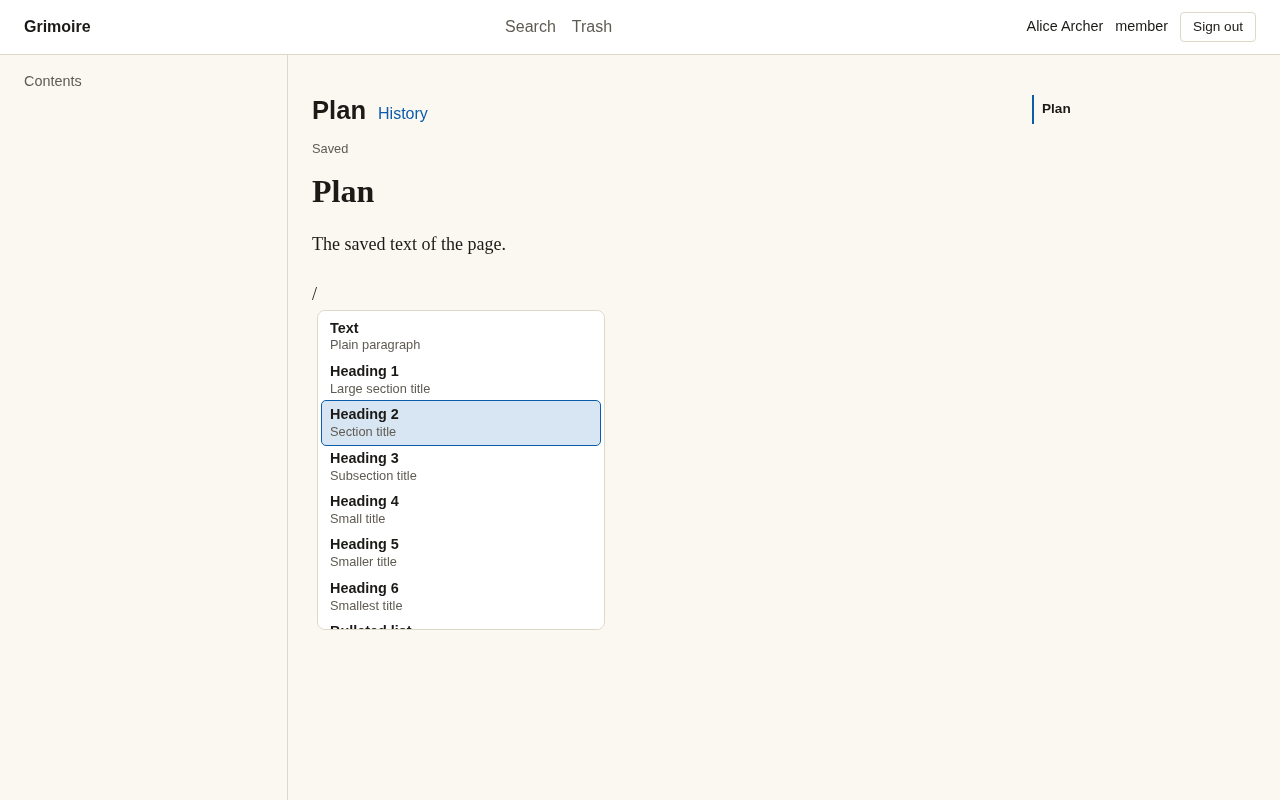
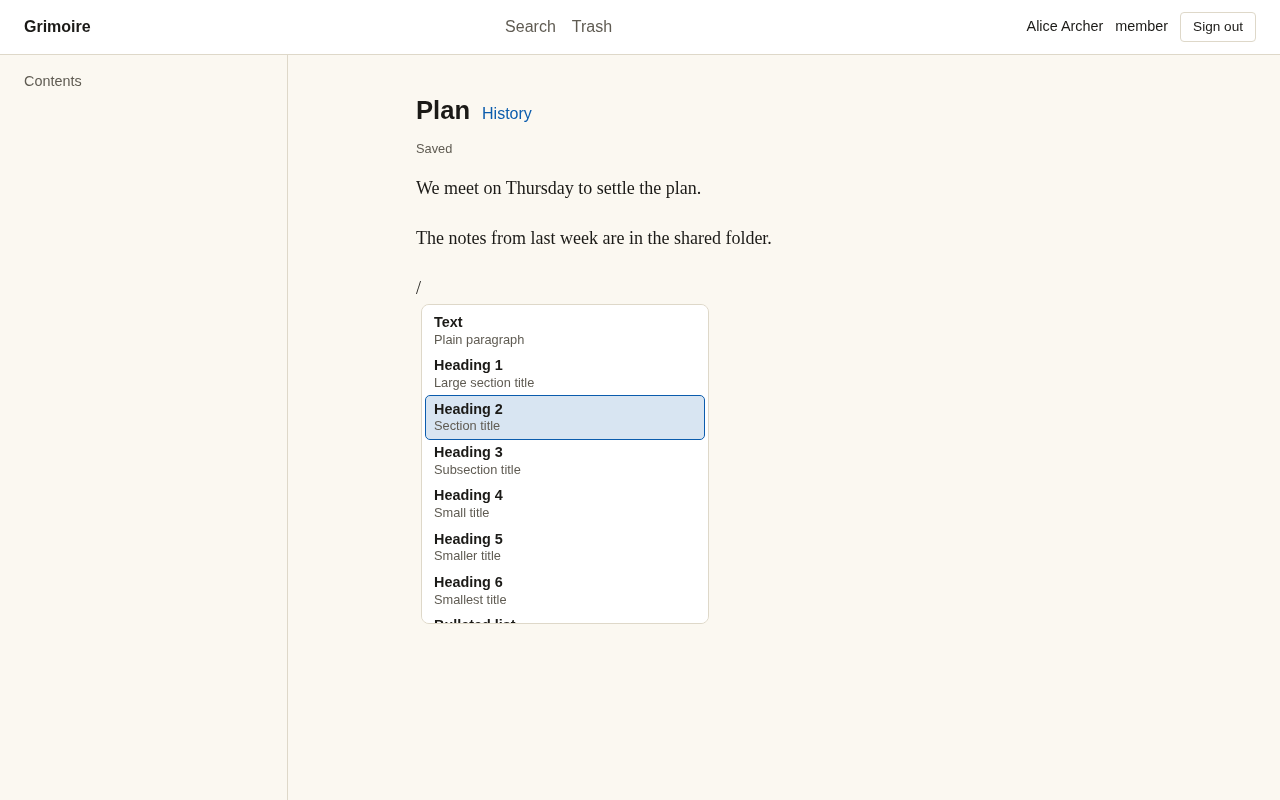
fix(web): the slash menu: label matches first, Escape tied to the text, the refusal path tested, the test hook absent from production, shots without a doubled title

diff --git a/apps/web/test/menus/slash.test.ts b/apps/web/test/menus/slash.test.ts
@@ -1,6 +1,5 @@
 import { TextSelection } from '@milkdown/prose/state';
-import { waitFor } from '@testing-library/react';
-import { afterEach, describe, expect, it } from 'vitest';
+import { afterEach, describe, expect, it, vi } from 'vitest';
 import { slashQuery } from '../../src/editor/menus/slash';
 import { plainEditor } from './support';
 
@@ -62,30 +61,30 @@ describe('the menu in the editor', () => {
   it('opens on a slash at the start of a paragraph with every kind, points the editor at the active one, and narrows as the person types', async () => {
     const t = await emptyParagraph();
     typeText(t, '/');
-    await waitFor(() => expect(open(t)).toBe(true));
+    await vi.waitFor(() => expect(open(t)).toBe(true));
     expect(options(t)).toHaveLength(14);
     expect(t.view().dom.getAttribute('aria-activedescendant')).toBe('slash-option-text');
     expect(t.view().dom.getAttribute('aria-controls')).toBe('slash-menu');
     typeText(t, 'head');
-    await waitFor(() => expect(options(t)).toHaveLength(6));
+    await vi.waitFor(() => expect(options(t)).toHaveLength(6));
     typeText(t, 'zz');
-    await waitFor(() => expect(host(t).textContent).toContain('No block matches'));
+    await vi.waitFor(() => expect(host(t).textContent).toContain('No block matches'));
   });
 
   it('closes when the slash is gone', async () => {
     const t = await emptyParagraph();
     typeText(t, '/');
-    await waitFor(() => expect(open(t)).toBe(true));
+    await vi.waitFor(() => expect(open(t)).toBe(true));
     const view = t.view();
     view.dispatch(view.state.tr.delete(view.state.selection.from - 1, view.state.selection.from));
-    await waitFor(() => expect(open(t)).toBe(false));
+    await vi.waitFor(() => expect(open(t)).toBe(false));
     expect(view.dom.getAttribute('aria-activedescendant')).toBeNull();
   });
 
   it('arrow keys move the active item, wrapping round; Enter chooses it: the slash text goes and the block is that kind', async () => {
     const t = await emptyParagraph();
     typeText(t, '/head');
-    await waitFor(() => expect(options(t)).toHaveLength(6));
+    await vi.waitFor(() => expect(options(t)).toHaveLength(6));
     press(t, 'ArrowDown');
     expect(t.view().dom.getAttribute('aria-activedescendant')).toBe('slash-option-heading-2');
     press(t, 'ArrowUp');
@@ -96,20 +95,20 @@ describe('the menu in the editor', () => {
     press(t, 'Enter');
     expect(t.view().state.doc.lastChild?.attrs['level']).toBe(2); // the block is the heading, level 2, and no slash text is left in it
     expect(t.view().state.doc.lastChild?.textContent).toBe('');
-    await waitFor(() => expect(open(t)).toBe(false));
+    await vi.waitFor(() => expect(open(t)).toBe(false));
   });
 
   it('Tab chooses too, and a click on an item chooses that one', async () => {
     const t = await emptyParagraph();
     typeText(t, '/quote');
-    await waitFor(() => expect(options(t)).toEqual(['Quote']));
+    await vi.waitFor(() => expect(options(t)).toEqual(['Quote']));
     press(t, 'Tab');
     expect(t.markdown()).toContain('>');
     await t.destroy();
     current = null;
     const second = await emptyParagraph();
     typeText(second, '/divider');
-    await waitFor(() => expect(options(second)).toEqual(['Divider']));
+    await vi.waitFor(() => expect(options(second)).toEqual(['Divider']));
     host(second)
       .querySelector('[role=option]')!
       .dispatchEvent(new MouseEvent('mousedown', { bubbles: true, cancelable: true }));
@@ -119,11 +118,11 @@ describe('the menu in the editor', () => {
   it("Escape closes it, and it stays closed until the text changes; keys other than its own are the editor's", async () => {
     const t = await emptyParagraph();
     typeText(t, '/q');
-    await waitFor(() => expect(open(t)).toBe(true));
+    await vi.waitFor(() => expect(open(t)).toBe(true));
     press(t, 'Escape');
     expect(open(t)).toBe(false);
     typeText(t, 'u');
-    await waitFor(() => expect(open(t)).toBe(true));
+    await vi.waitFor(() => expect(open(t)).toBe(true));
     const other = new KeyboardEvent('keydown', { key: 'a', bubbles: true, cancelable: true });
     t.view().dom.dispatchEvent(other);
     expect(other.defaultPrevented).toBe(false);
@@ -138,12 +137,36 @@ describe('the menu in the editor', () => {
     expect(open(t)).toBe(false);
   });
 
-  it('puts the typed text back when the schema refuses the kind where the cursor is', async () => {
-    current = await plainEditor('```\ncode\n```');
+  it('puts the typed text back when the schema refuses the kind where the cursor is: the first block of a table cell cannot be a heading', async () => {
+    current = await plainEditor('| Head | Other |\n| --- | --- |\n| cell | more |\n');
     const t = current;
-    t.cursorAtEnd();
-    typeText(t, '/h'); // inside a code block: not a paragraph, so no menu and nothing is taken
-    expect(slashQuery(t.view())).toBeNull();
-    expect(host(t)?.dataset['show'] ?? 'false').not.toBe('true');
+    const view = t.view();
+    let cell = -1;
+    view.state.doc.descendants((node, pos) => {
+      if (cell < 0 && node.type.name === 'table_cell' && node.textContent === 'cell') cell = pos;
+    });
+    expect(cell).toBeGreaterThan(0);
+    view.dispatch(view.state.tr.setSelection(TextSelection.create(view.state.doc, cell + 2))); // at the start of the paragraph in the cell
+    view.dispatch(view.state.tr.insertText('/head', cell + 2));
+    await vi.waitFor(() => expect(open(t)).toBe(true));
+    expect(options(t)).toHaveLength(6);
+    press(t, 'Enter');
+    const after = view.state.doc.nodeAt(cell)!;
+    expect(after.textContent).toBe('/headcell'); // nothing lost, nothing misplaced
+    expect(after.firstChild?.type.name).toBe('paragraph');
+    expect(after.firstChild?.attrs['level']).toBe(0); // and still a paragraph: the schema refused
+  });
+
+  it('Escape keeps it closed until the text after the slash changes, or the cursor has left the slash: delete the slash and type it again, and it opens', async () => {
+    const t = await emptyParagraph();
+    typeText(t, '/');
+    await vi.waitFor(() => expect(open(t)).toBe(true));
+    press(t, 'Escape');
+    const view = t.view();
+    view.dispatch(view.state.tr.setSelection(TextSelection.create(view.state.doc, view.state.selection.from))); // a move of the cursor that changes nothing
+    expect(open(t)).toBe(false);
+    view.dispatch(view.state.tr.delete(view.state.selection.from - 1, view.state.selection.from));
+    typeText(t, '/');
+    await vi.waitFor(() => expect(open(t)).toBe(true));
   });
 });

diff --git a/apps/web/src/editor/menus/slash.ts b/apps/web/src/editor/menus/slash.ts
@@ -36,8 +36,9 @@ function createView(ctx: Ctx, view: EditorView) {
   // A press on the list (its scroll bar, the space between items) must not take the focus from the text. (The items are focusable without being tab stops, so the scrolling list has keyboard access.)
   host.addEventListener('mousedown', (event) => event.preventDefault());
   const root = createRoot(host);
-  const provider = new SlashProvider({ content: host, debounce: 0, offset: 6, shouldShow: (v) => slashQuery(v) !== null && state.dismissedAt !== v.state.selection.from });
-  const state = { kinds: BLOCK_KINDS, active: 0, dismissedAt: -1, open: false };
+  const provider = new SlashProvider({ content: host, debounce: 0, offset: 6, shouldShow: (v) => slashQuery(v) !== null && state.dismissed === null });
+  /** `dismissed`: Escape closed the menu for this paragraph and this text; it stays closed until the text after the slash changes, or the cursor leaves the slash. */
+  const state = { kinds: BLOCK_KINDS, active: 0, dismissed: null as { start: number; query: string } | null, open: false };
 
   const render = (): void => {
     root.render(
@@ -72,6 +73,7 @@ function createView(ctx: Ctx, view: EditorView) {
   const spec = {
     update(next: EditorView, prev?: Parameters<typeof provider.update>[1]) {
       const query = slashQuery(next);
+      if (query === null || (state.dismissed !== null && (state.dismissed.query !== query || state.dismissed.start !== next.state.selection.$from.start()))) state.dismissed = null;
       const kinds = query === null ? BLOCK_KINDS : matchingKinds(query);
       if (kinds.length !== state.kinds.length || kinds.some((kind, i) => kind !== state.kinds[i])) state.active = 0;
       state.kinds = kinds;
@@ -91,7 +93,7 @@ function createView(ctx: Ctx, view: EditorView) {
     if (!state.open || slashQuery(view) === null) return false;
     const count = state.kinds.length;
     if (event.key === 'Escape') {
-      state.dismissedAt = view.state.selection.from;
+      state.dismissed = { start: view.state.selection.$from.start(), query: slashQuery(view) ?? '' };
       provider.hide();
       return true;
     }

diff --git a/apps/web/src/editor/menus/blocks.ts b/apps/web/src/editor/menus/blocks.ts
@@ -58,16 +58,20 @@ export const BLOCK_KINDS: readonly BlockKind[] = [
   { id: 'table', label: 'Table', description: 'Rows and columns', keywords: ['table', 'grid', 'rows', 'columns'], run: (ctx) => call(ctx, insertTableCommand.key, { row: 3, col: 3 }) },
 ];
 
-/** The kinds that match what was typed after the slash: every kind for nothing, else those with the text (any case) in the label or a keyword, label matches first. */
+/**
+ * The kinds that match what was typed after the slash: every kind for nothing, else those with the text (any case) in the label or a keyword, in four groups: the label
+ * starts with it, a keyword starts with it, the label has it inside, a keyword has it inside. (So `/c` offers the code block before the task list, whose keyword "check" starts with c.)
+ */
 export function matchingKinds(query: string, kinds: readonly BlockKind[] = BLOCK_KINDS): readonly BlockKind[] {
   const needle = query.trim().toLowerCase();
   if (needle === '') return kinds;
-  const starts: BlockKind[] = [];
-  const contains: BlockKind[] = [];
+  const groups: BlockKind[][] = [[], [], [], []];
   for (const kind of kinds) {
     const label = kind.label.toLowerCase();
-    if (label.startsWith(needle) || kind.keywords.some((word) => word.startsWith(needle))) starts.push(kind);
-    else if (label.includes(needle) || kind.keywords.some((word) => word.includes(needle))) contains.push(kind);
+    if (label.startsWith(needle)) groups[0]!.push(kind);
+    else if (kind.keywords.some((word) => word.startsWith(needle))) groups[1]!.push(kind);
+    else if (label.includes(needle)) groups[2]!.push(kind);
+    else if (kind.keywords.some((word) => word.includes(needle))) groups[3]!.push(kind);
   }
-  return [...starts, ...contains];
+  return groups.flat();
 }

diff --git a/apps/web/test/unit/test-hook.test.ts b/apps/web/test/unit/test-hook.test.ts
@@ -1,0 +1,44 @@
+// @vitest-environment node
+import { execFileSync } from 'node:child_process';
+import { mkdirSync, mkdtempSync, readdirSync, readFileSync, rmSync } from 'node:fs';
+import path from 'node:path';
+import { afterAll, beforeAll, describe, expect, it } from 'vitest';
+
+const web = path.resolve(import.meta.dirname, '../..');
+const cache = path.join(web, 'node_modules/.cache');
+const dirs: string[] = [];
+const build = (mode: string): string => {
+  mkdirSync(cache, { recursive: true });
+  const out = mkdtempSync(path.join(cache, `test-hook-${mode}-`));
+  dirs.push(out);
+  execFileSync(process.execPath, [path.join(web, '../../node_modules/vite/bin/vite.js'), 'build', '--mode', mode, '--outDir', out, '--emptyOutDir'], {
+    cwd: web,
+    stdio: 'pipe',
+    env: { ...process.env, NODE_ENV: 'production' },
+  });
+  return out;
+};
+const chunks = (dir: string): string[] =>
+  readdirSync(path.join(dir, 'assets'))
+    .filter((f) => f.endsWith('.js'))
+    .map((f) => readFileSync(path.join(dir, 'assets', f), 'utf8'));
+
+let production: string;
+let e2e: string;
+beforeAll(() => {
+  production = build('production');
+  e2e = build('e2e');
+}, 120_000);
+afterAll(() => {
+  for (const d of dirs) rmSync(d, { recursive: true, force: true });
+});
+
+describe("the test hook that puts the open page's shared document on the window", () => {
+  it('is in the end-to-end build, where the specifications read it', () => {
+    expect(chunks(e2e).some((text) => text.includes('__grimoireDoc'))).toBe(true);
+  });
+
+  it('is not in the production build: no chunk has it', () => {
+    expect(chunks(production).filter((text) => text.includes('__grimoireDoc'))).toEqual([]);
+  });
+});

diff --git a/apps/web/test/menus/blocks.test.ts b/apps/web/test/menus/blocks.test.ts
@@ -34,6 +34,12 @@ describe('the block kinds of the menu', () => {
     expect(matchingKinds('LIST').map((kind) => kind.id)).toEqual(['bullet-list', 'numbered-list', 'task-list']);
     expect(matchingKinds('todo').map((kind) => kind.id)).toEqual(['task-list']);
     expect(matchingKinds('ode').map((kind) => kind.id)).toEqual(['code']); // inside a word: found, after the ones that start with it
+    expect(matchingKinds('c')[0]?.id, 'a label that starts with it comes before a keyword that does').toBe('code');
+    expect(
+      matchingKinds('c')
+        .map((kind) => kind.id)
+        .indexOf('task-list'),
+    ).toBeGreaterThan(0);
     expect(matchingKinds('zzz')).toEqual([]);
   });
 
